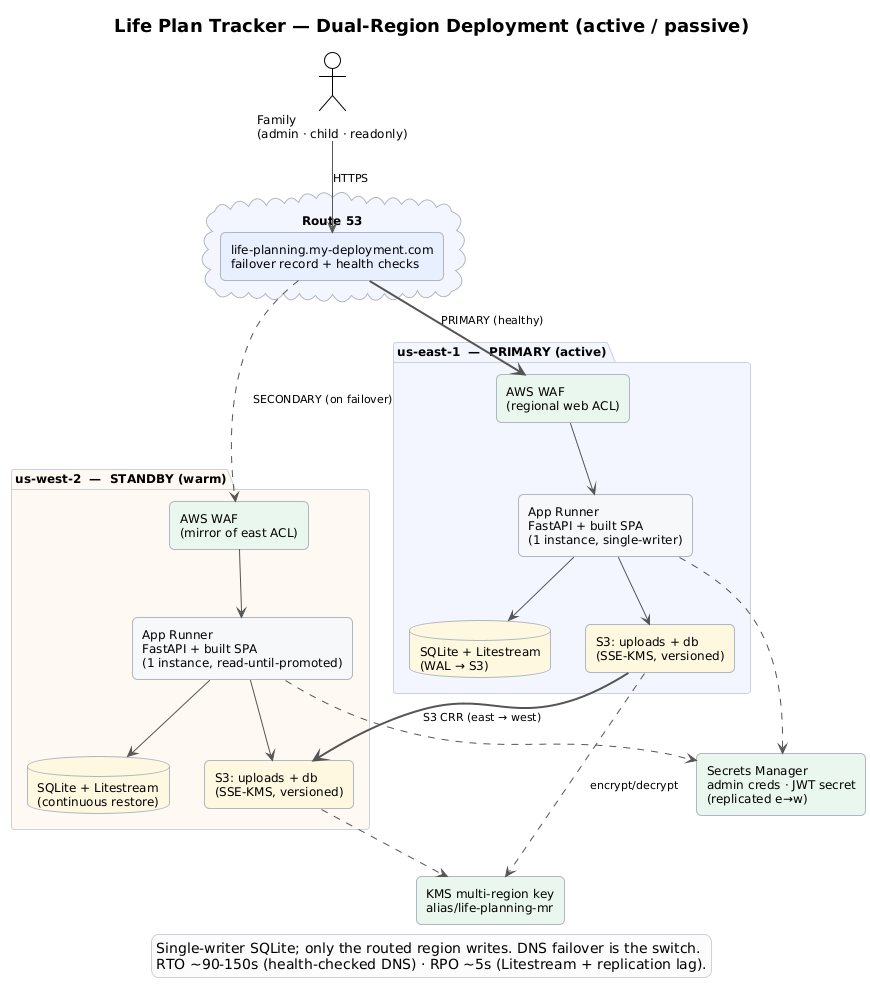
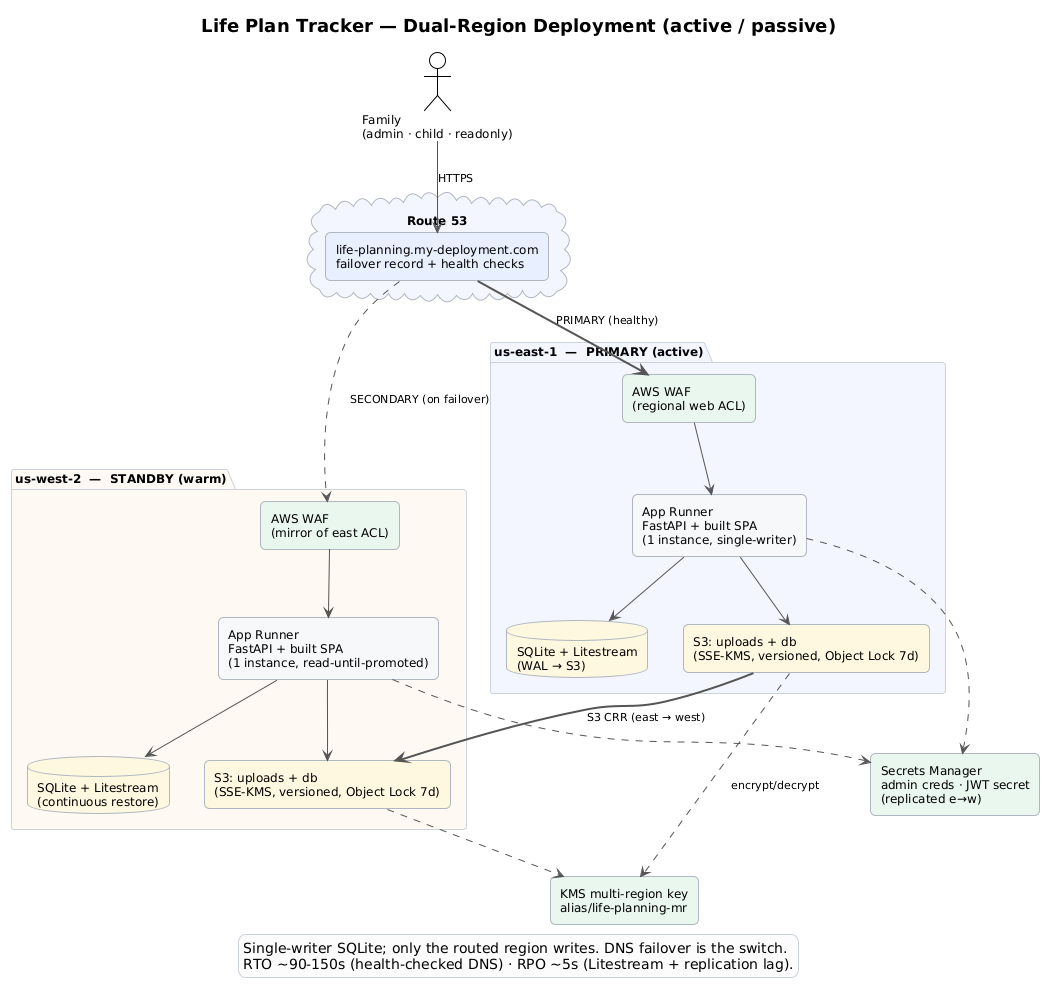
docs: adversarial doc/diagram review — fix stale claims post-remediation
Ran a 3-agent adversarial review of all docs + architecture diagrams against the
actual code/infra after this session's heavy changes. Fixed the material drift:

- SBOM.md: python-jose -> PyJWT 2.15.0 (+ dropped jose's dead transitive deps
  ecdsa/rsa/pyasn1/six); corrected fastapi 0.118.3 / python-multipart 0.0.31;
  flagged passlib as dead (auth uses raw bcrypt); JWT '24h'->2h + cookie/
  token_version; 'hardcoded default'->Secrets Manager (AWS boot-refusal); seed
  metrics 540/136 -> 590/209; added boto3 + Litestream; bumped version/date.
- DEPLOYMENT_STEPS.md: banner + inline fixes for the deploy model (immutable
  :<timestamp> + digest promote, AutoDeploy=false, NOT :latest auto-deploy);
  DB buckets now Object Lock + instance role has NO DeleteObject on them; WAF
  XSS_BODY=Block (only SizeRestrictions=Count); rollback via promote.sh digest.
- FOLLOW_UPS.md: :stable-tag + digest-pin TODOs marked done/obsolete (superseded
  by immutable-ECR digest-promote).
- PHASE2_FAILOVER.md: west 'start-deployment' stale-standby note marked
  superseded by the both-region digest promote.
- SECURITY_REVIEW.md: added a top reconciliation note (sections 1-11 are a
  point-in-time narrative; section 12 + TODO statuses are authoritative) listing
  the superseded claims (localStorage, ?token=, no-Object-Lock, jose, :latest).
- Diagrams: architecture_deployment S3 nodes now show Object Lock;
  architecture_failover fail-back marked GATED/manual with the one-way-CRR
[…]

diff --git a/deploy/DEPLOYMENT_STEPS.md b/deploy/DEPLOYMENT_STEPS.md
@@ -27,14 +27,25 @@ how it was built — not a plan. For the design rationale see
 App Runner's CLI/API source-build only supports **managed runtimes** (no
 Docker). Our app needs a multi-stage Dockerfile (build the React frontend, then
 run FastAPI serving both). So we build the image locally and push to **ECR**,
-and App Runner deploys from the ECR image with **auto-deploy on `:latest`**.
+and App Runner deploys from that image.
+
+> **⚠ DEPLOY MODEL UPDATED 2026-10-31 (supersedes the `:latest` auto-deploy
+> described below).** ECR is now **IMMUTABLE**. `build_push.sh` pushes a unique
+> immutable `:<timestamp>` tag (no `:latest`), resolves its **digest**, and
+> **explicitly promotes that digest** to BOTH regions via `update-service`
+> (`AutoDeploymentsEnabled=false`) — east first, then west after a ~30s wait for
+> ECR cross-region replication. There is **no auto-deploy**. Any text below that
+> says "`:latest` auto-deploy / App Runner auto-rolls / AutoDeploymentsEnabled=
+> true" is historical. Rollback = `./deploy/promote.sh <good-timestamp-tag>`.
 
 A GitHub connection (`life-planning-github`) was created and is `AVAILABLE`, but
 is **not** the active source — it is retained for a possible future switch to
 source-based builds.
 
-Redeploy = `./deploy/build_push.sh` (build → push `:latest` + timestamp tag →
-App Runner auto-rolls). ECR lifecycle policy prunes to the newest 5 images.
+Redeploy = `./deploy/build_push.sh` — builds, pushes an immutable `:<timestamp>`
+tag, resolves the digest, and promotes it to east + west by `update-service`.
+ECR lifecycle policy prunes to the newest 5 images (ensure it never prunes a
+digest a service still points at).
 
 ---
 
@@ -90,14 +101,24 @@ Random-suffix names (not guessable). For **each** bucket apply: Block Public
 Access (all 4), versioning, SSE-KMS default (the key above), a TLS-only bucket
 policy (deny `aws:SecureTransport=false`), and a lifecycle rule to expire
 noncurrent versions after 60 days.
+
+> **UPDATED 2026-10-31 (TODO-4):** the two **DB replica buckets were recreated
+> with S3 Object Lock enabled (GOVERNANCE / 7-day default retention)** — Object
+> Lock can only be set at bucket *creation*, so recreation was required. Current
+> DB buckets: `life-planning-db-986c194983eeadd8a9813e5b` (east),
+> `life-planning-db-f9adedad09bd4575ca856d9e-west`. The uploads buckets are
+> unchanged (no Object Lock — user-delete is a feature there). To recreate a DB
+> bucket, add `--object-lock-enabled-for-bucket` to `create-bucket` and a
+> `put-object-lock-configuration` with GOVERNANCE/7d.
+
 ```bash
 set -a; . ./.arn-env; set +a
 for B in "$UPLOADS_BUCKET" "$DB_REPLICA_BUCKET"; do
-  aws s3api create-bucket --bucket "$B" --region us-east-1
+  aws s3api create-bucket --bucket "$B" --region us-east-1   # DB bucket: add --object-lock-enabled-for-bucket
   aws s3api put-public-access-block --bucket "$B" --public-access-block-configuration BlockPublicAcls=true,IgnorePublicAcls=true,BlockPublicPolicy=true,RestrictPublicBuckets=true
   aws s3api put-bucket-versioning --bucket "$B" --versioning-configuration Status=Enabled
   aws s3api put-bucket-encryption --bucket "$B" --server-side-encryption-configuration "{\"Rules\":[{\"ApplyServerSideEncryptionByDefault\":{\"SSEAlgorithm\":\"aws:kms\",\"KMSMasterKeyID\":\"$KMS_KEY_ARN\"},\"BucketKeyEnabled\":true}]}"
-  # + TLS-only bucket policy + lifecycle (expire noncurrent 60d)
+  # + TLS-only bucket policy + lifecycle (expire noncurrent 60d); DB buckets also get Object Lock GOVERNANCE/7d
 done
 # -> record UPLOADS_BUCKET, DB_REPLICA_BUCKET in .arn-env
 ```
@@ -105,8 +126,10 @@ done
 ### 4. Instance role (least-privilege, app assumes this)
 Trust: `tasks.apprunner.amazonaws.com`. Inline policy (specific ARNs, **no
 wildcards**): `secretsmanager:GetSecretValue` on both secrets;
-`s3:Get/Put/Delete/ListBucket` on BOTH buckets (uploads + DB replica);
-`kms:Decrypt/Encrypt/GenerateDataKey` on the key.
+`s3:Get/Put/List` on all buckets, **`s3:DeleteObject` on the UPLOADS buckets
+ONLY — NOT on the DB buckets** (TODO-4: a compromised instance must not be able
+to delete the Object-Locked Litestream DR backups; Litestream needs only
+Get/Put/List); `kms:Decrypt/Encrypt/GenerateDataKey` on the MRK.
 ```bash
 # -> record APPRUNNER_ROLE_ARN in .arn-env
 ```
@@ -119,7 +142,7 @@ aws ecr create-repository --repository-name life-planning \
 aws ecr put-lifecycle-policy --repository-name life-planning \
   --lifecycle-policy-text '{"rules":[{"rulePriority":1,"description":"keep newest 5","selection":{"tagStatus":"any","countType":"imageCountMoreThan","countNumber":5},"action":{"type":"expire"}}]}' --region us-east-1
 # -> record ECR_REPO_URI in .arn-env
-./deploy/build_push.sh    # builds the Dockerfile, pushes :latest
+./deploy/build_push.sh    # builds the Dockerfile, pushes an immutable :<timestamp> tag
 ```
 
 ### 6. ECR access role (App Runner pulls the private image)
@@ -131,9 +154,11 @@ Trust: `build.apprunner.amazonaws.com`. Attach managed
 ```
 
 ### 7. App Runner service (from ECR image)
-`create-service` with `ImageRepository` (type ECR, `:latest`),
-`AutoDeploymentsEnabled=true`, `AccessRoleArn` = ECR access role,
-`InstanceRoleArn` = instance role, port 8000, and env vars below.
+`create-service` with `ImageRepository` (type ECR, pinned to an immutable image
+**digest** — not `:latest`), **`AutoDeploymentsEnabled=false`**, `AccessRoleArn`
+= ECR access role, `InstanceRoleArn` = instance role, port 8000, and env vars
+below. (Deploys happen by explicit digest promote via `build_push.sh`/
+`promote.sh`, not auto-deploy — see the deploy-model banner at the top.)
 
 > **Health-check path = `/api/alive`** (always 200), NOT `/api/health`. App
 > Runner gates deployments on this path; `/api/health` is toggleable to 503 for
@@ -166,9 +191,10 @@ Rules by priority: (0) **Allow** `/api/health` exact-match; (1) rate-based
 Block on `/api/auth/login` (limit 100/IP); (2-4) managed CommonRuleSet,
 KnownBadInputs, AmazonIpReputationList; (5) **Block** when `Host` contains
 `awsapprunner.com` (locks the default domain; custom domain still served).
-Within CommonRuleSet, override `SizeRestrictions_BODY` and
-`CrossSiteScripting_BODY` to **Count** — otherwise file uploads (>8KB bodies)
-are blocked.
+Within CommonRuleSet, override **`SizeRestrictions_BODY` to `Count`** — otherwise
+file uploads (>8KB bodies) are blocked (the app enforces its own 1MB JSON /
+50MB upload caps). **`CrossSiteScripting_BODY` is left at its default `Block`**
+(restored 2026-10-31, TODO-3 — multipart image uploads pass it fine).
 ```bash
 # NOTE: WAF ByteMatch SearchString values must be base64-encoded in the --rules file.
 aws wafv2 create-web-acl --name life-planning-waf --scope REGIONAL --region us-east-1 ...
@@ -332,8 +358,10 @@ is, and the 72h expiry; no password is ever emailed or stored.
 - **Health / status / logs:** `./deploy/monitor.sh {all|status|health|logs|dns|watch|smoke}`
 - **Redeploy new code:** `./deploy/build_push.sh` (auto-deploys)
 - **Admin password:** `aws secretsmanager get-secret-value --secret-id life-planning/admin-credentials --region us-east-1 --query SecretString --output text`
-- **Rollback:** `build_push.sh` stamps a timestamp tag per build; re-point the
-  service at a known-good tag (see FOLLOW_UPS for tagging a `:stable`).
+- **Rollback:** `./deploy/promote.sh <known-good-timestamp-tag>` — resolves that
+  tag's immutable digest and `update-service`s both regions to it. (ECR is
+  IMMUTABLE, so there is no movable `:stable` tag — roll back by promoting a
+  specific prior timestamp tag's digest.)
 
 ---
 

diff --git a/SBOM.md b/SBOM.md
@@ -1,8 +1,8 @@
 # Software Bill of Materials (SBOM)
 
 **Project:** Life Plan Tracker
-**Version:** 0.5.1
-**Generated:** 2026-07-10
+**Version:** 0.6.0
+**Generated:** 2026-10-31
 
 ---
 
@@ -21,38 +21,40 @@
 
 ### Direct Dependencies (`requirements.txt`)
 
-| Package | Pinned | Installed | Purpose | License |
-|---------|--------|-----------|---------|---------|
-| fastapi | 0.115.0 | 0.136.3 | Web framework / API | MIT |
-| uvicorn[standard] | 0.30.0 | 0.48.0 | ASGI server | BSD-3 |
-| sqlalchemy | 2.0.35 | 2.0.50 | ORM / database models | MIT |
-| pydantic | 2.9.0 | 2.13.4 | Request/response validation | MIT |
-| python-jose[cryptography] | 3.3.0 | 3.5.0 | JWT token encoding/decoding | MIT |
-| passlib[bcrypt] | 1.7.4 | 1.7.4 | Password hashing (bcrypt backend) | BSD-3 |
-| python-multipart | 0.0.9 | 0.0.30 | Form data / file upload parsing | Apache-2.0 |
-| alembic | 1.13.0 | — | DB migrations (listed but unused) | MIT |
+Versions are **exact pins** (`==`) — the running version equals the pin.
 
-Note: Pinned versions in `requirements.txt` are floor pins. The installed versions are what's actually running after `pip install -r requirements.txt` resolves latest compatible versions.
+| Package | Pinned | Purpose | License |
+|---------|--------|---------|---------|
+| fastapi | 0.118.3 | Web framework / API | MIT |
+| uvicorn[standard] | 0.30.0 | ASGI server | BSD-3 |
+| sqlalchemy | 2.0.35 | ORM / database models | MIT |
+| pydantic | 2.9.0 | Request/response validation | MIT |
+| PyJWT | 2.15.0 | JWT encode/decode (HS256) | MIT |
+| passlib[bcrypt] | 1.7.4 | (pinned but UNUSED — auth.py uses raw `bcrypt`; dead dep) | BSD-3 |
+| python-multipart | 0.0.31 | Form data / file upload parsing | Apache-2.0 |
+| alembic | 1.13.0 | (listed but unused — no migrations/ dir) | MIT |
+| boto3 | 1.35.76 | AWS SDK (S3 + Secrets Manager, AWS mode) | Apache-2.0 |
 
-### Transitive Dependencies (installed)
+> **2026-10-31:** `python-jose[cryptography]` was **removed** and replaced with
+> **PyJWT 2.15.0** (stale-advisory + transitive ecdsa/pyasn1 cleanup). JWT uses
+> HS256 only, with `algorithms=["HS256"]` pinned on decode.
 
-| Package | Version | License |
-|---------|---------|---------|
-| annotated-types | 0.7.0 | MIT |
-| anyio | 4.13.0 | MIT |
-| bcrypt | 5.0.0 | Apache-2.0 |
-| click | 8.4.1 | BSD-3 |
-| ecdsa | 0.19.2 | MIT |
-| greenlet | 3.5.1 | MIT |
-| h11 | 0.16.0 | MIT |
-| idna | 3.18 | BSD-3 |
-| pyasn1 | 0.6.3 | BSD-2 |
-| pydantic_core | 2.46.4 | MIT |
-| rsa | 4.9.1 | Apache-2.0 |
-| six | 1.17.0 | MIT |
-| starlette | 1.2.1 | BSD-3 |
-| typing-inspection | 0.4.2 | MIT |
-| typing_extensions | 4.15.0 | PSF |
+### Transitive Dependencies (notable)
+
+| Package | License | Notes |
+|---------|---------|-------|
+| bcrypt | Apache-2.0 | password hashing (used directly by auth.py) |
+| annotated-types | MIT | pydantic |
+| anyio | MIT | starlette/async |
+| click | BSD-3 | uvicorn CLI |
+| h11 | MIT | uvicorn HTTP |
+| idna | BSD-3 | |
+| pydantic_core | MIT | pydantic (Rust) |
+| starlette | BSD-3 | FastAPI core |
+| typing_extensions | PSF | |
+
+> The former python-jose transitive deps (**ecdsa, rsa, pyasn1, six**) are **no
+> longer present** after the PyJWT migration — PyJWT has no such dependencies.
 
 ---
 
@@ -94,8 +96,11 @@ Note: Pinned versions in `requirements.txt` are floor pins. The installed versio
 | SQLite database | `app/backend/life_plan.db` | Contains child PII (name, DOB), behavior incidents, financial data, bounty history, discernment reflections |
 | Database backups | `app/backend/backups/` | Timestamped copies (last 10 retained) |
 | Uploaded files | `app/backend/uploads/` | Event attachments (images, videos, documents) |
-| JWT secret | Environment variable or hardcoded default | Must be changed in production |
+| JWT secret | AWS Secrets Manager (AWS mode) / `SECRET_KEY` env (local) | AWS mode **refuses to boot** without `JWT_SECRET_ARN`; no hardcoded prod default |
 | Planning documents | `docs/*.md` | 25 pillar/discernment/program guides + addenda, served filtered via API (admin only) |
+
+> **Runtime binary:** Litestream v0.3.13 (Apache-2.0) is downloaded in the
+> Docker build (SHA256-verified) for continuous SQLite→S3 replication.
 
 ---
 
@@ -103,8 +108,8 @@ Note: Pinned versions in `requirements.txt` are floor pins. The installed versio
 
 | Metric | Value |
 |--------|-------|
-| Seeded milestones | 540 |
-| Seeded bounties | 136 |
+| Seeded milestones | 590 |
+| Seeded bounties | 209 |
 | Pillars | 14 |
 | Programs | 10 (all populated) |
 | Discernment categories | 10 |
@@ -116,12 +121,21 @@ Note: Pinned versions in `requirements.txt` are floor pins. The installed versio
 
 ## Security Notes
 
-- Passwords are hashed with passlib/bcrypt (cost factor 12)
-- Authentication uses JWT with 24-hour expiry
-- Role-based access control: admin (full CRUD), child (own profile + bounties), readonly (view only — enforced at API level)
-- No external network calls — fully self-contained
-- SQLite file should be backed up regularly (`POST /api/profiles/backup`) and protected with filesystem permissions
-- Default admin password (`changeme`) must be changed after first login
+- Passwords are hashed with **bcrypt** directly (`bcrypt.gensalt()`, default cost
+  factor 12); input is truncated to bcrypt's 72-byte limit. (passlib is pinned
+  but no longer used.)
+- Authentication uses a **JWT (HS256, 2-hour expiry)** carried in an **httpOnly,
+  `SameSite=strict`, `Secure` cookie** (`lp_auth`), cookie-first with a Bearer
+  header fallback; a `token_version` claim enables instant revocation
+  (logout / password change). The token is **not** readable by JS.
+- Role-based access control: admin (full CRUD), child (own profile + bounties),
+  readonly (view only — enforced at API level via router-level guards).
+- No external network calls at request time; AWS mode uses S3 + Secrets Manager
+  via the instance role.
+- SQLite is continuously replicated to S3 (Litestream) with S3 Object Lock
+  (GOVERNANCE/7d) on the backup buckets; local backups via `POST /api/profiles/backup`.
+- **AWS mode refuses to boot** with the default `admin`/`changeme` credentials
+  (sourced from Secrets Manager instead).
 
 ---
 
@@ -139,4 +153,5 @@ This is a private family application not intended for public deployment. If expo
 
 | Package | Status | Notes |
 |---------|--------|-------|
-| alembic | Listed in requirements.txt, not installed, not used | No alembic.ini or migrations/ directory exists. Can be removed from requirements.txt when convenient. |
+| alembic | Listed in requirements.txt, unused | No `alembic.ini` or `migrations/` directory. Schema changes use the additive `ensure_columns()` migration in `database.py`. Removable. |
+| passlib[bcrypt] | Listed in requirements.txt, unused | `auth.py` hashes with raw `bcrypt` directly; passlib is not imported anywhere. Removable. |

diff --git a/deploy/PHASE2_FAILOVER.md b/deploy/PHASE2_FAILOVER.md
@@ -224,19 +224,21 @@ the standby.
 > `lp_auth` (HttpOnly/SameSite=strict/Secure), `/api/auth/me` + `/api/profiles/`
 > authorized by cookie alone. Clean fail-back to east in ~95s.
 >
-> **⚠ OPERATIONAL FINDING — west was running STALE code before this drill.**
-> Although both services have `AutoDeploymentsEnabled=true` on `:latest`, App
-> Runner's auto-deploy fires on a **direct push** to the watched repo, **not**
-> on a **cross-region-replicated** image landing. So after each
-> `build_push.sh`, east auto-deploys but **west keeps running its old image**
-> (the new digest WAS present in west ECR — same sha — but the service hadn't
-> rolled it). The standby had been stale since 2026-10-21 until a manual
-> `aws apprunner start-deployment --service-arn "$SERVICE_ARN_WEST"` this drill.
-> **FIX APPLIED (2026-10-27):** `deploy/build_push.sh` now triggers an explicit
-> `aws apprunner start-deployment` for the WEST service after the push (gated on
-> `$SERVICE_ARN_WEST`, best-effort so replication lag can't fail the primary
-> deploy). Both regions now roll the same image on every deploy. If west ever
-> no-ops due to replication lag, just re-run the printed `start-deployment`.
+> **⚠ OPERATIONAL FINDING (2026-10-27) — west ran STALE code: SUPERSEDED, see
+> the 2026-10-31 note below.** Historically both services had
+> `AutoDeploymentsEnabled=true` on `:latest`, and App Runner's auto-deploy fires
+> on a **direct push**, not on a **cross-region-replicated** image landing — so
+> west silently lagged east after each `build_push.sh`. The 2026-10-27 interim
+> fix added a best-effort `aws apprunner start-deployment` for west.
+>
+> **✅ FULLY RESOLVED (2026-10-31, TODO-8/14):** the deploy model changed to
+> **immutable-tag + explicit digest promote**. `build_push.sh` now pushes an
+> immutable `:<timestamp>` tag, resolves the digest, and calls `update-service`
+> on **BOTH** regions (east, then west after ~30s for CRR) with
+> `AutoDeploymentsEnabled=false`. ECR is IMMUTABLE. There is **no auto-deploy
+> and no `start-deployment` call** anymore — both regions are promoted to the
+> exact same digest every deploy, so the stale-standby class of bug is
+> structurally gone. (The `start-deployment` best-effort note above is obsolete.)
 
 We need the primary `/api/health` to start failing WITHOUT deleting anything.
 Options, least-destructive first:

diff --git a/deploy/FOLLOW_UPS.md b/deploy/FOLLOW_UPS.md
@@ -48,11 +48,11 @@ Resource IDs: see git-ignored `.arn-env`.
       confirm login still works. Rotating the JWT secret instantly invalidates
       all outstanding tokens — a useful "log everyone out" lever. Document the
       runbook: *update secret → redeploy → done.*
-- [ ] **Tag a `:stable` ECR image for guaranteed rollback.** Auto-deploy ships
-      `:latest` straight to the single instance with no staging. `build_push.sh`
-      already stamps a timestamp tag; additionally tag a known-good image
-      `:stable` so a bad deploy can be rolled back by pointing the service at
-      `:stable`. Document the rollback command.
+- [x] **Rollback via immutable digest (DONE 2026-10-31, supersedes `:stable`).**
+      The old plan (a movable `:stable` tag) is **incompatible with the now-
+      IMMUTABLE ECR repo** and with the digest-promote deploy model. Rollback is
+      now `./deploy/promote.sh <known-good-timestamp-tag>`, which resolves that
+      tag's immutable digest and `update-service`s both regions. No mutable tag.
 - [ ] **Independent daily DB snapshot (separate from Litestream).** Litestream
       is *replication*, not *backup* — it faithfully propagates a bad delete or
       corruption within ~1s. Add a daily timestamped copy of the SQLite replica
@@ -64,9 +64,9 @@ Resource IDs: see git-ignored `.arn-env`.
       data are present AND the entrypoint log shows `restore` ran (not a fresh
       empty DB). Keep as a periodic check.
 - [ ] **Read the ECR image scan results once.** Scan-on-push is enabled; pull
-      findings for the current image and triage any HIGH/CRITICAL. Consider
-      pinning the App Runner image to a digest instead of `:latest` so you know
-      exactly what is deployed.
+      findings for the current image and triage any HIGH/CRITICAL. (Digest
+      pinning is already DONE 2026-10-31 — the service runs a specific immutable
+      digest, not `:latest`, and CI runs a Trivy scan on every build.)
 
 ---
 

diff --git a/deploy/SECURITY_REVIEW.md b/deploy/SECURITY_REVIEW.md
@@ -5,6 +5,27 @@ This is the baseline document for a 3-agent security re-review. Every claim belo
 is grounded in code/config in this repo; file references are given so reviewers
 can verify._
 
+> **⚠ READING NOTE — §1–§11 are a point-in-time NARRATIVE; §12 + the TODO
+> statuses are the AUTHORITATIVE current state (2026-10-31).** The review
+> panels (§10/§11/§12) describe findings *as discovered*, then the §12 TODO list
+> records what was remediated. Several baseline claims in §1–§11 were SUPERSEDED
+> by the remediations and should be read through §12:
+> - **Auth is an httpOnly `SameSite=strict` cookie, NOT `localStorage`.** Any
+>   "JWT in localStorage" / "CSP is the main barrier to token theft" wording in
+>   §2/§5/§8-R1/§9/§10 is historical — the cookie migration is DONE (§12 + README).
+> - **The `/api/uploads?token=` query fallback was REMOVED** (TODO-6). Blob
+>   serving is cookie-only; §4/§10 mentions of `?token=` are historical.
+> - **DB buckets have S3 Object Lock (GOVERNANCE/7d) and the instance role has
+>   NO `s3:DeleteObject` on them** (TODO-4). §4's "SSE-KMS/versioned" bucket
+>   description predates this.
+> - **JWT lib is PyJWT** (not python-jose, TODO-7); **2-hour TTL** with a
+>   `token_version` revocation claim (TODO-5).
+> - **ECR is IMMUTABLE + digest-promote deploy** (TODO-8/14), not `:latest`
+>   auto-deploy.
+> - **WAF `CrossSiteScripting_BODY` = Block** (TODO-3); only `SizeRestrictions_
+>   BODY` stays Count.
+> See §12 "FINAL STATUS" for the full done-list.
+
 ---
 
 ## 1. System summary
